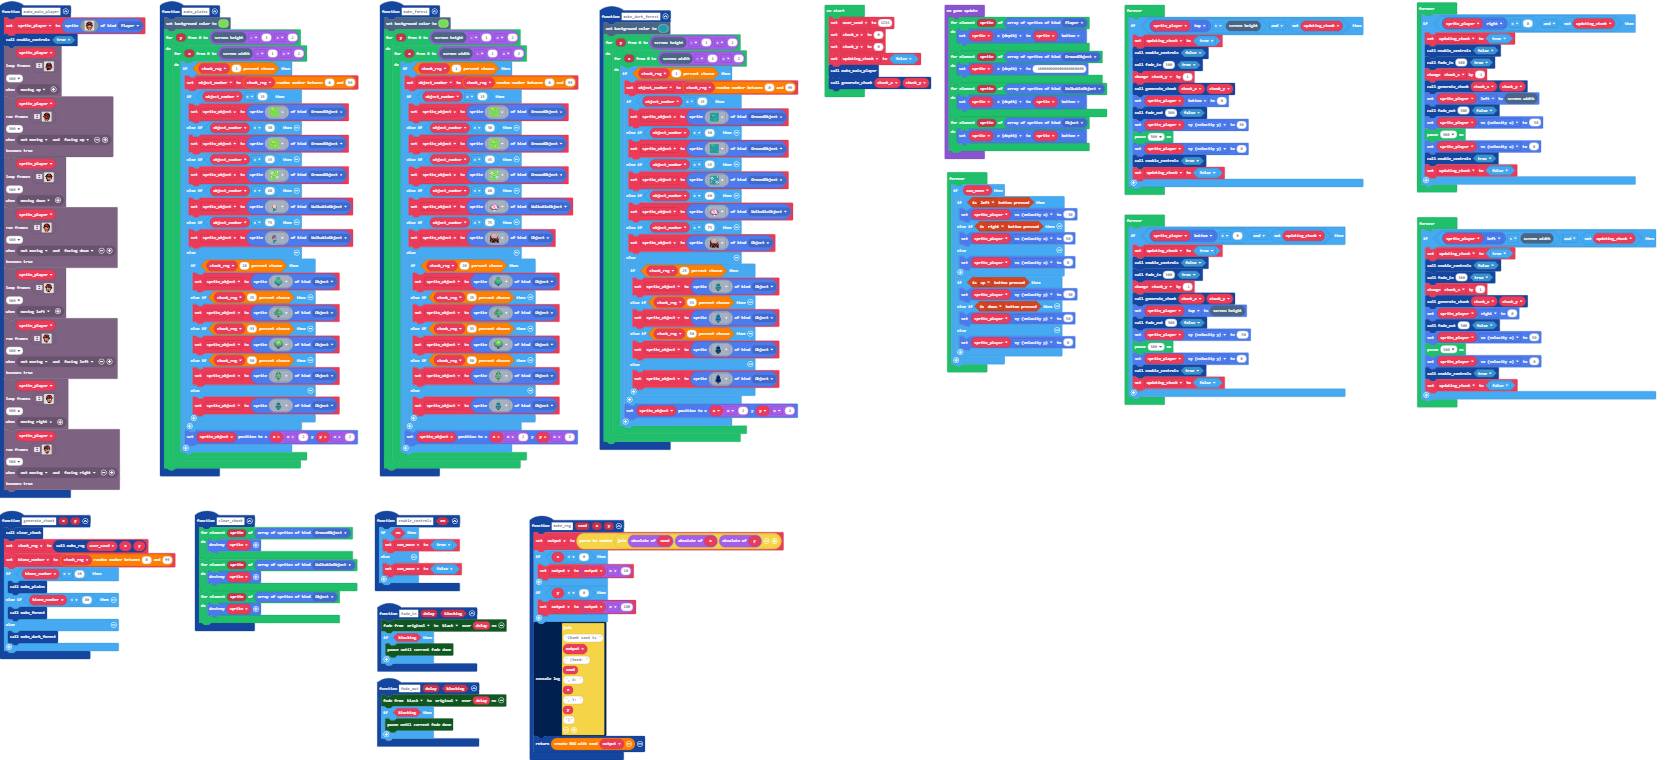
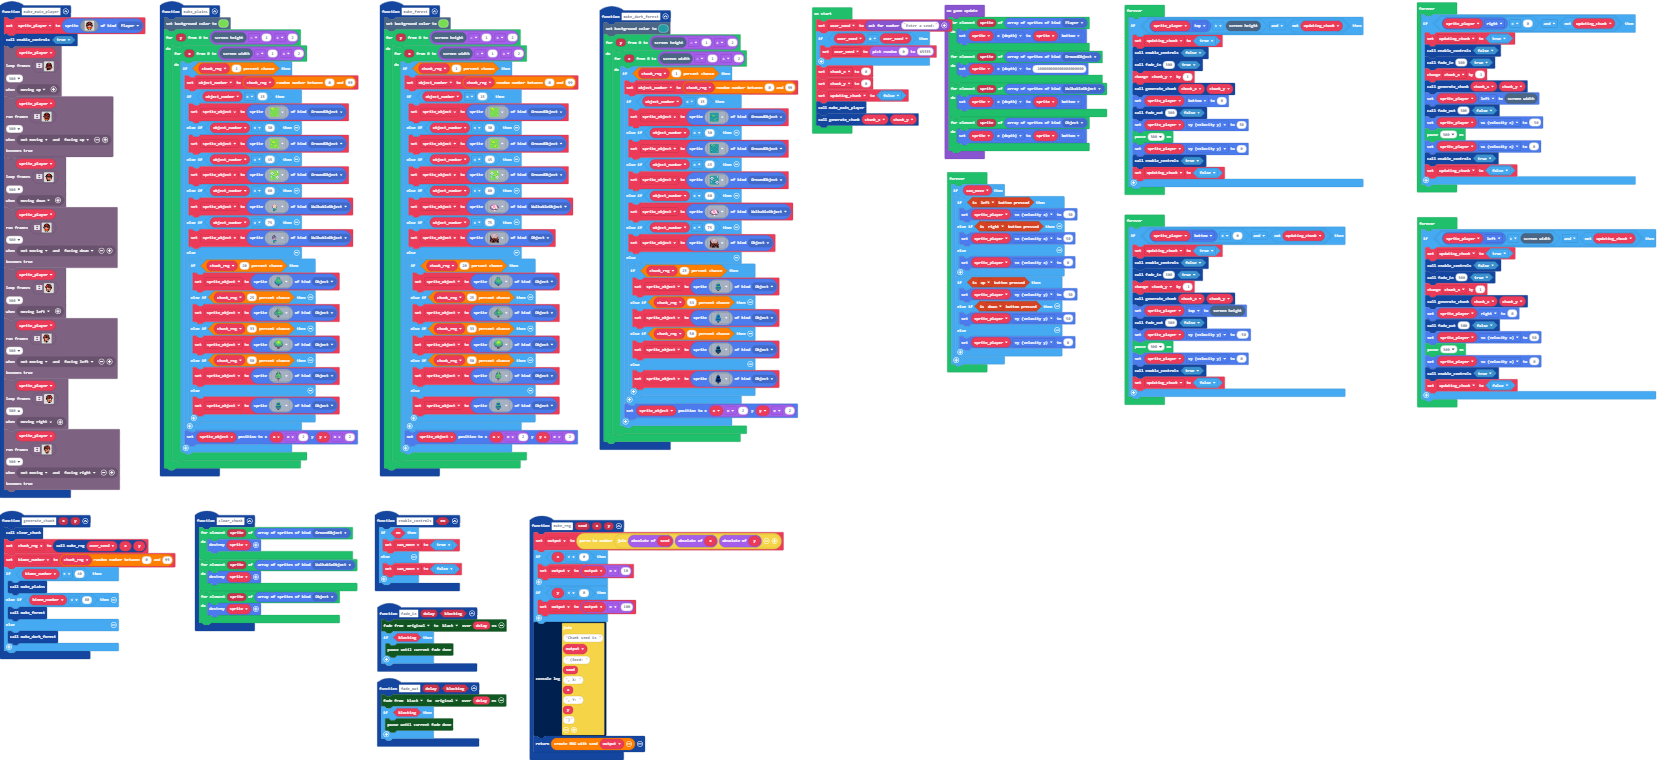
Can input seed

Changed region(s): [[0.4673, 0.0, 0.592, 0.1816]]

diff --git a/main.ts b/main.ts
@@ -437,7 +437,10 @@ let biome_number = 0
 let chunk_rng: FastRandomBlocks = null
 let output = 0
 let user_seed = 0
-user_seed = 1234
+user_seed = game.askForNumber("Enter a seed:")
+if (user_seed != user_seed) {
+    user_seed = randint(0, 65535)
+}
 let chunk_x = 0
 let chunk_y = 0
 let updating_chunk = false
